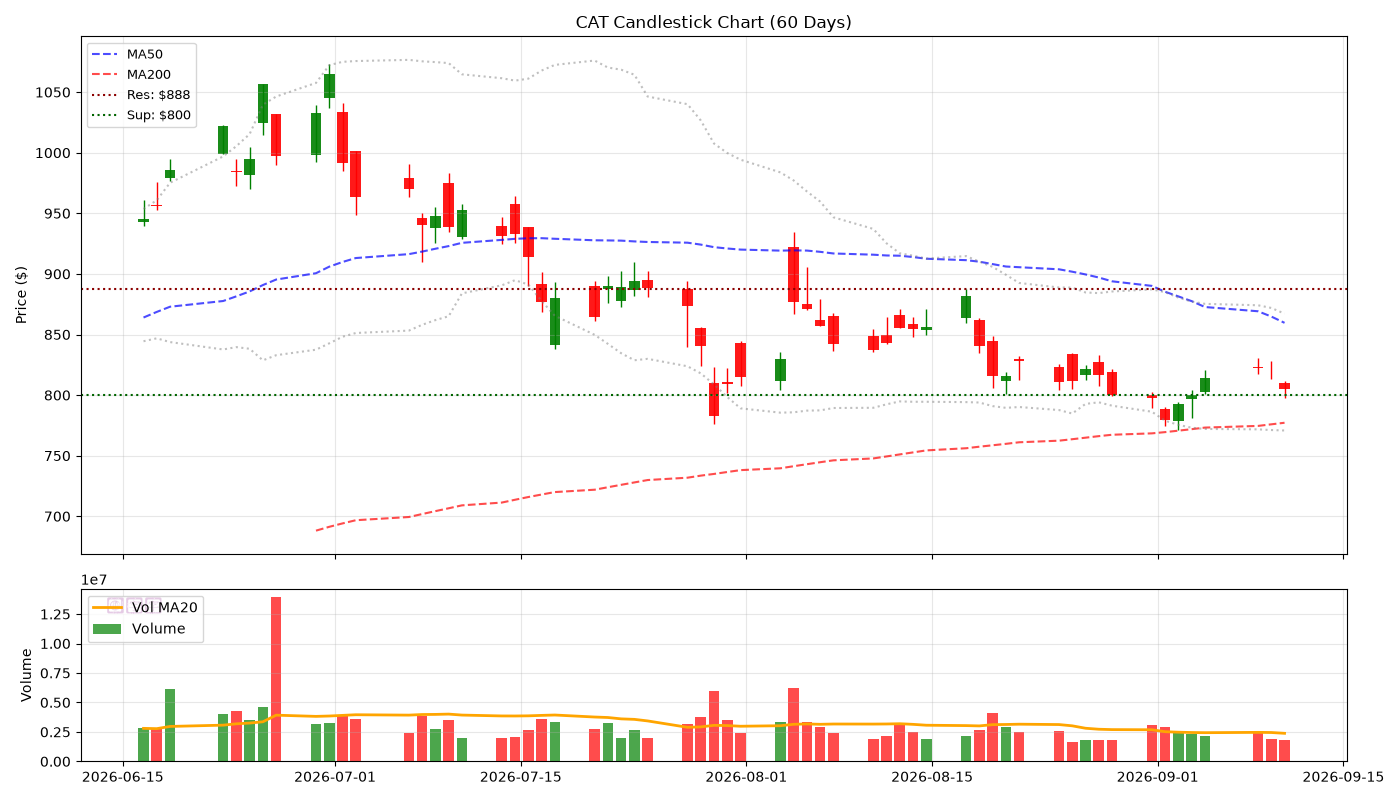
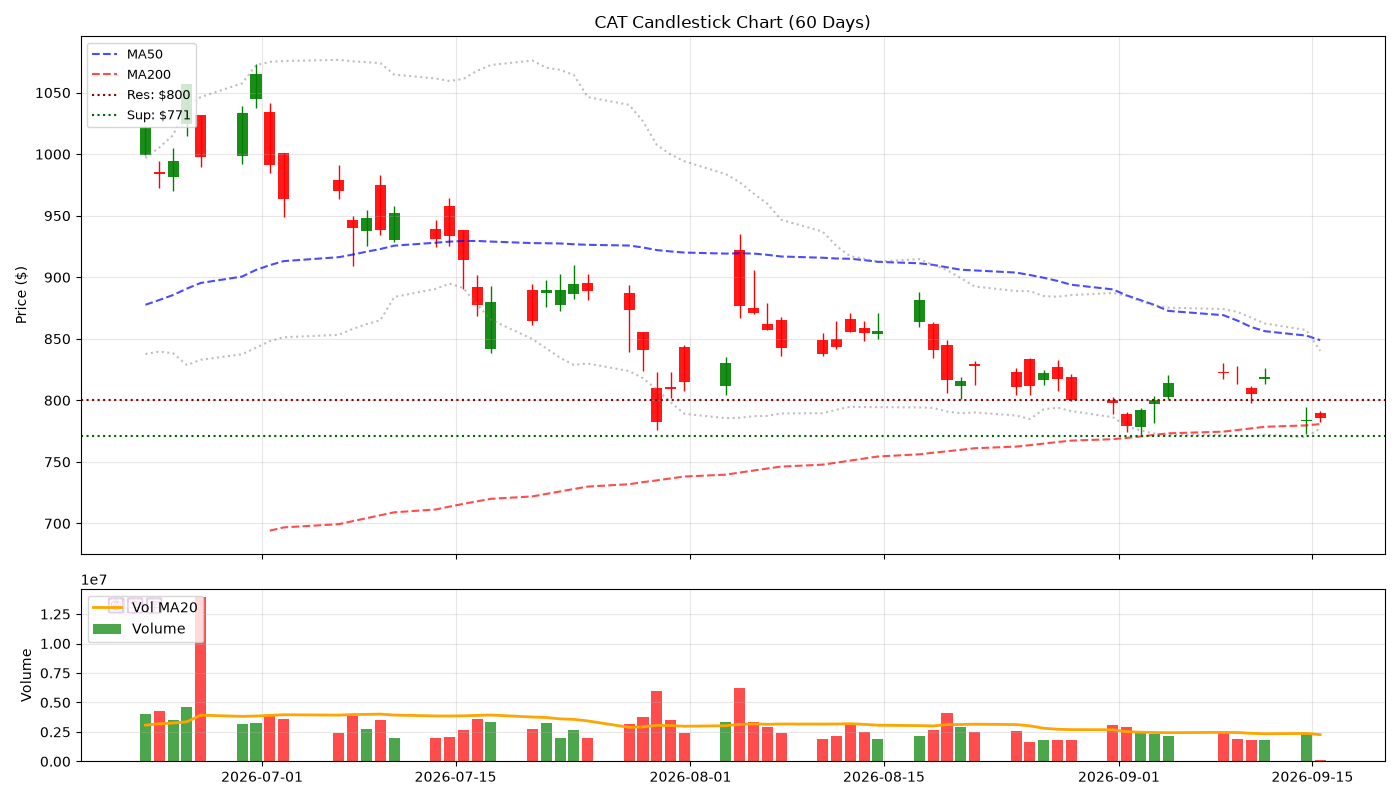
feat(v5): 2026-09-15 Candlestick

diff --git a/reports/2026-09-15.md b/reports/2026-09-15.md
@@ -1,0 +1,85 @@
+# 🕯 Hermes V5 陰陽燭專業日報 - 2026-09-15
+> **生成時間**: 2026-09-15 21:46:17 | **圖表**: 正宗陰陽燭 + Volume
+
+---
+
+## 📊 核心數據
+
+| 股票 | 價格 | 漲跌% | RSI | 成交量 | 阻力 | 支撐 |
+|------|------|-------|-----|--------|------|------|
+| SNDK | $1558.24 | +0.40% | 56.5 | 💤 | $1600 | $1550 |
+| MU | $935.33 | +1.22% | 50.4 | 💤 | $950 | $900 |
+| SOXL | $104.92 | +3.75% | 43.9 | 💤 | $138 | $100 |
+| TSLA | $361.21 | +0.62% | 54.5 | 💤 | $384 | $350 |
+| APP | $331.60 | -0.79% | 62.4 | 💤 | $338 | $300 |
+| NOW | $141.00 | -0.95% | 59.9 | 💤 | $150 | $118 |
+| CAT | $785.65 | +0.21% | 42.2 | 💤 | $800 | $771 |
+| AMAT | $424.13 | -0.02% | 30.0 | 💤 | $517 | $420 |
+| NOK | $10.04 | +4.02% | 46.6 | 💤 | $11 | $10 |
+| ALAB | $259.92 | +1.12% | 44.2 | 💤 | $300 | $257 |
+
+---
+
+## 📈 個股陰陽燭分析
+
+### SNDK ($1558.24, +0.40%)
+![Candlestick](../charts/SNDK.png)
+
+- **RSI**: 56.5 | **Vol**: LOW
+- **關鍵位**: 阻力 $1600.00 | 支撐 $1550.00
+
+### MU ($935.33, +1.22%)
+![Candlestick](../charts/MU.png)
+
+- **RSI**: 50.4 | **Vol**: LOW
+- **關鍵位**: 阻力 $950.00 | 支撐 $900.00
+
+### SOXL ($104.92, +3.75%)
+![Candlestick](../charts/SOXL.png)
+
+- **RSI**: 43.9 | **Vol**: LOW
+- **關鍵位**: 阻力 $137.60 | 支撐 $100.00
+
+### TSLA ($361.21, +0.62%)
+![Candlestick](../charts/TSLA.png)
+
+- **RSI**: 54.5 | **Vol**: LOW
+- **關鍵位**: 阻力 $384.04 | 支撐 $350.00
+
+### APP ($331.60, -0.79%)
+![Candlestick](../charts/APP.png)
+
+- **RSI**: 62.4 | **Vol**: LOW
+- **關鍵位**: 阻力 $338.34 | 支撐 $300.00
+
+### NOW ($141.00, -0.95%)
+![Candlestick](../charts/NOW.png)
+
+- **RSI**: 59.9 | **Vol**: LOW
+- **關鍵位**: 阻力 $149.60 | 支撐 $117.84
+
+### CAT ($785.65, +0.21%)
+![Candlestick](../charts/CAT.png)
+
+- **RSI**: 42.2 | **Vol**: LOW
+- **關鍵位**: 阻力 $800.00 | 支撐 $771.39
+
+### AMAT ($424.13, -0.02%)
+![Candlestick](../charts/AMAT.png)
+
+- **RSI**: 30.0 | **Vol**: LOW
+- **關鍵位**: 阻力 $516.83 | 支撐 $419.60
+
+### NOK ($10.04, +4.02%)
+![Candlestick](../charts/NOK.png)
+
+- **RSI**: 46.6 | **Vol**: LOW
+- **關鍵位**: 阻力 $11.17 | 支撐 $9.54
+
+### ALAB ($259.92, +1.12%)
+![Candlestick](../charts/ALAB.png)
+
+- **RSI**: 44.2 | **Vol**: LOW
+- **關鍵位**: 阻力 $300.00 | 支撐 $256.51
+
+*Generated by Hermes Agent V5 (Candlestick Pro)*

diff --git a/index.md b/index.md
@@ -1,12 +1,12 @@
 # 🌍 Hermes V5 陰陽燭情報中心
-> **更新**: 2026-09-11 06:01:14
+> **更新**: 2026-09-15 21:46:17
 
 | 股票 | 價格 | 漲跌% | RSI | Vol |
 |------|------|-------|-----|-----|
-| SNDK | $1692.59 | -4.06% | 58.1 | 💤 |
-| MU | $977.41 | -4.90% | 50.5 | 💤 |
-| SOXL | $115.76 | -8.03% | 45.6 | 💤 |
-| TSLA | $363.56 | -1.16% | 56.4 | 💤 |
-| APP | $314.49 | +3.09% | 53.4 | 💤 |
+| SNDK | $1558.24 | +0.40% | 56.5 | 💤 |
+| MU | $935.33 | +1.22% | 50.4 | 💤 |
+| SOXL | $104.92 | +3.75% | 43.9 | 💤 |
+| TSLA | $361.21 | +0.62% | 54.5 | 💤 |
+| APP | $331.60 | -0.79% | 62.4 | 💤 |
 
-📖 [查看完整陰陽燭報告](reports/2026-09-11.md)
+📖 [查看完整陰陽燭報告](reports/2026-09-15.md)
